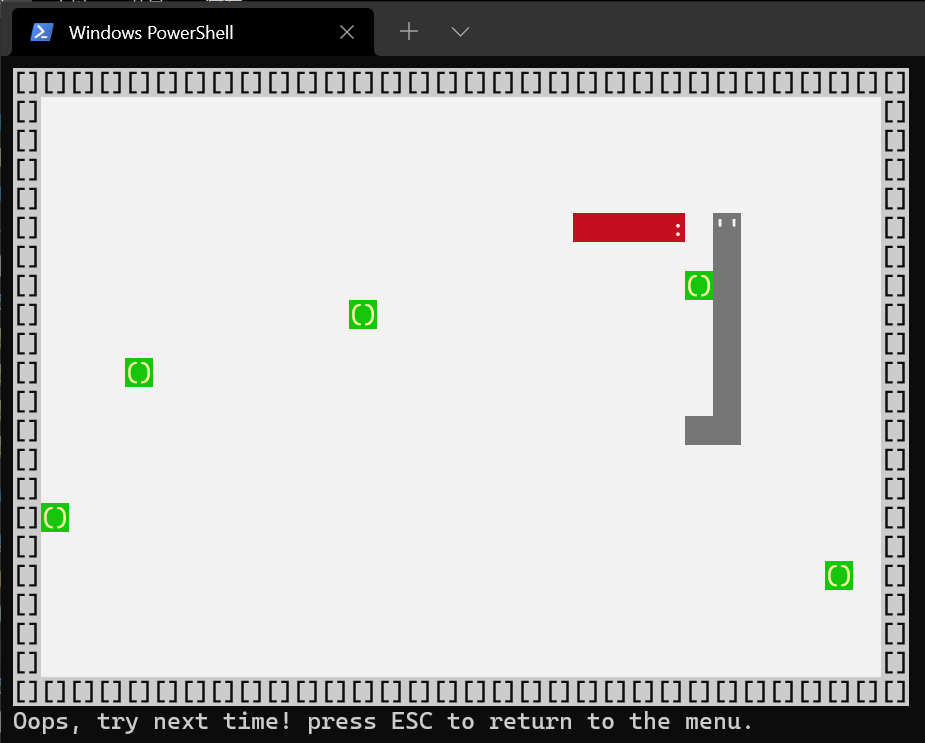
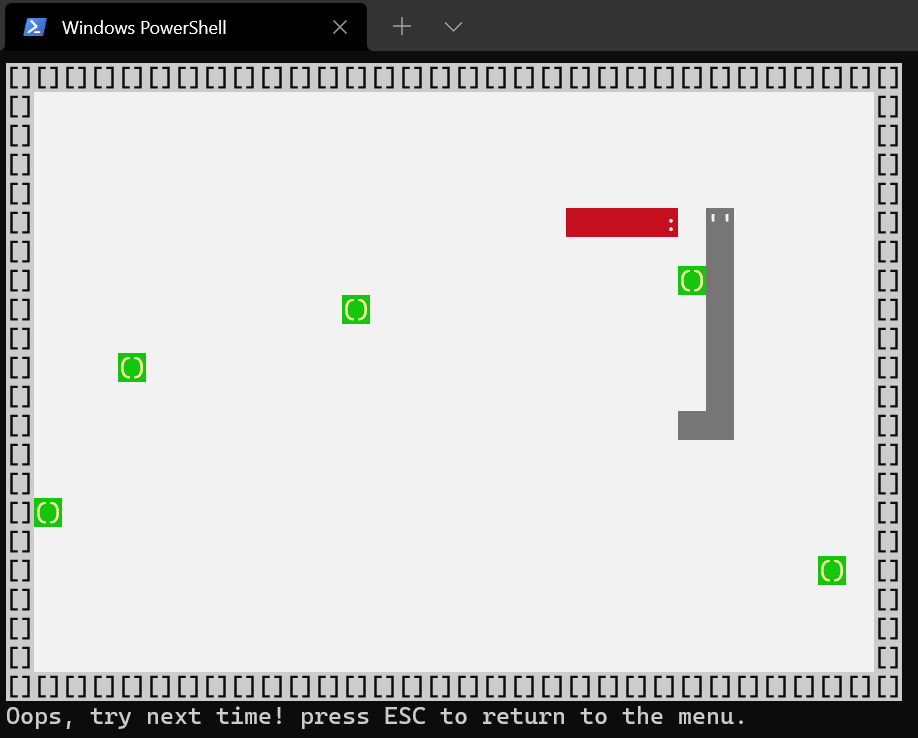
small fix of readme

diff --git a/README.md b/README.md
@@ -2,7 +2,7 @@
 
 Software laboratory for XJTU course computer network, then implemented multiplayer snake game, with Rust.
 
-![In Game Demo](/assets/in_game_demo.png)
+<img src="assets/in_game_demo.png" alt="In Game Demo" style="zoom:50%;" />
 
 ## How to play
 
